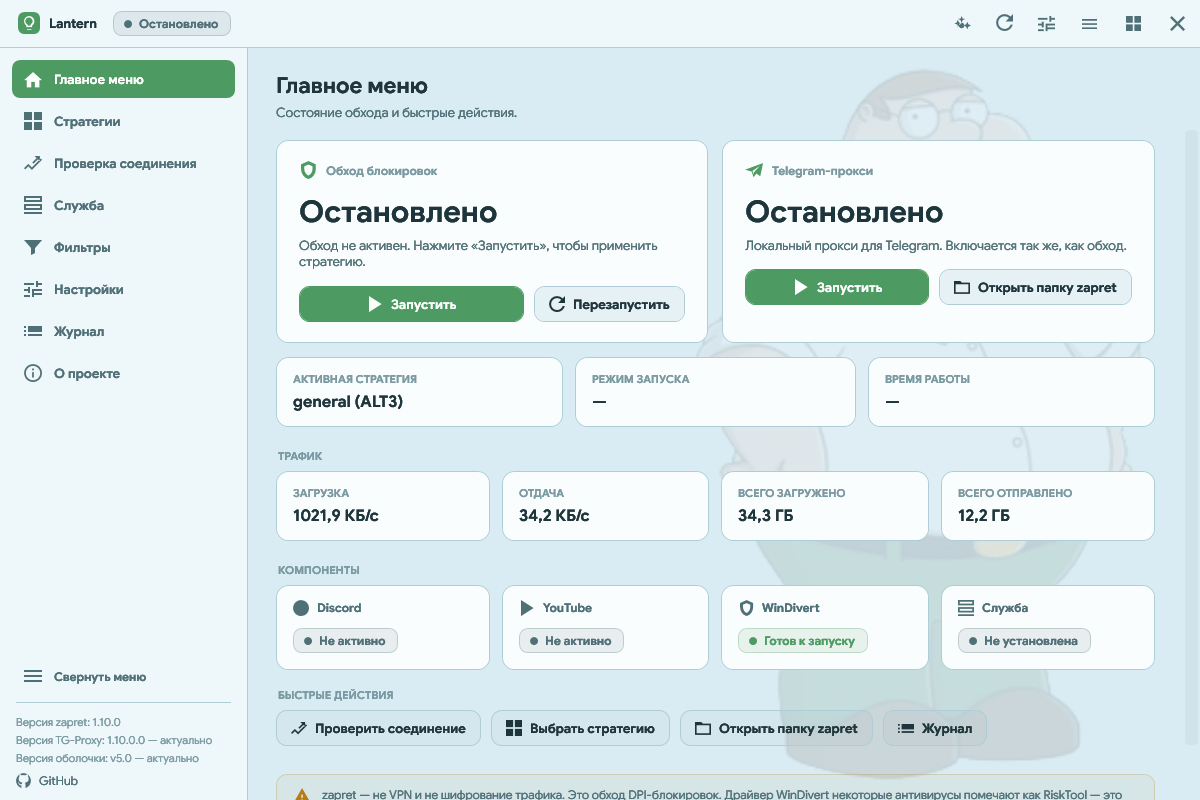
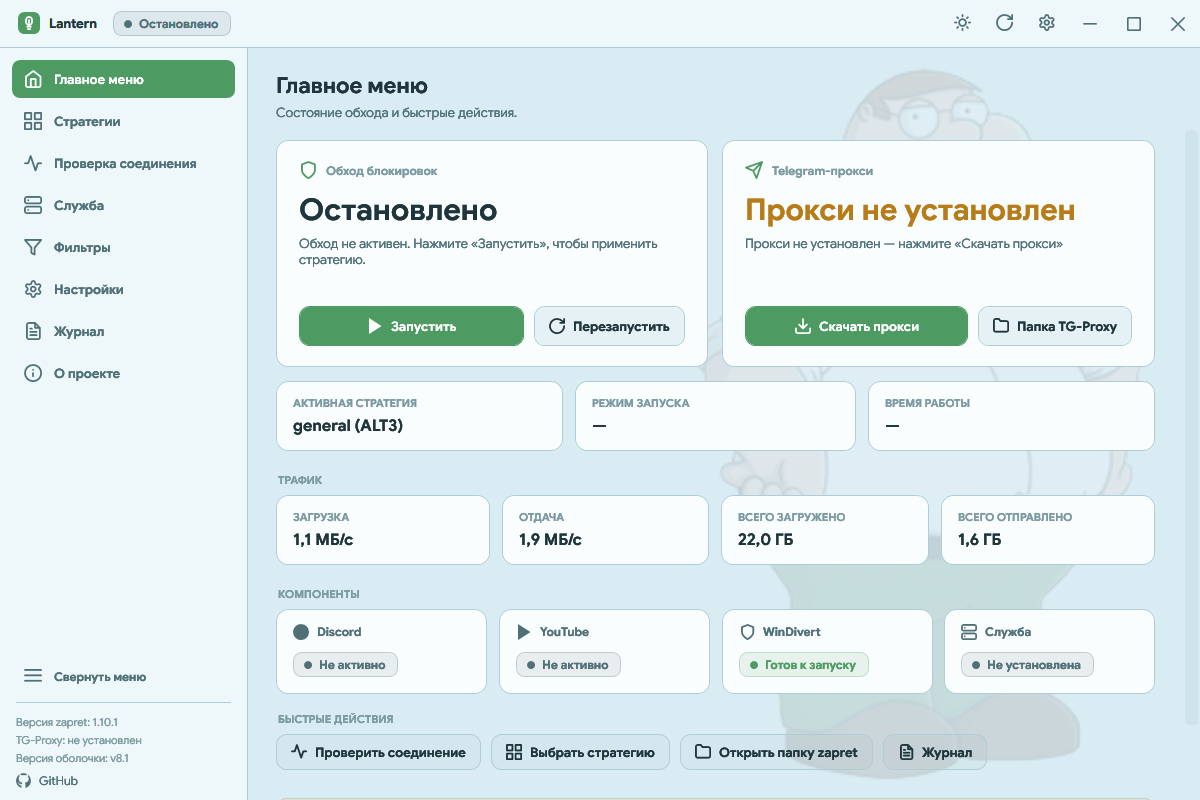
docs: refresh guide, issue templates, README and all UI screenshots for v8.1

diff --git a/_app/SelfTest.cs b/_app/SelfTest.cs
@@ -755,7 +755,7 @@ namespace ZapretStudio
             catch (Exception ex) { _fail++; Line("FAIL", what + " -> " + ex.GetType().Name + ": " + ex.Message); }
         }
 
-        static void Line(string lvl, string msg) { Log.AppendLine("[" + lvl + "] " + msg); }
+        static void Line(string lvl, string msg) { Log.AppendLine("[" + lvl + "] " + msg); Console.WriteLine("[" + lvl + "] " + msg); }
 
         // Рендер окна в PNG для визуальной проверки и автогенерации документации.
         static void SavePng(MainWindow win, string fullPath)

diff --git a/docs/guide.md b/docs/guide.md
@@ -147,7 +147,7 @@
 
 ## ⚙ Служба Windows (Автозапуск)
 
-Установка Lantern в качестве **системной службы Windows** позволяет `winws.exe` стартовать автоматически при загрузке компьютера еще до входа пользователя в систему.
+Установка Lantern в качестве **системной службы Windows** позволяет `winws.exe` стартовать автоматически при загрузке компьютера еще до входа пользователя в систему. В этом же разделе централизованно настраивается поведение фонового автозапуска.
 
 <div align="center">
 
@@ -155,11 +155,15 @@
 
 </div>
 
-### Как настроить службу:
-1. Выберите нужную стратегию в выпадающем списке раздела **Служба**.
-2. Нажмите кнопку **«Установить службу»**.
-3. Lantern создаст службу с именем `zapret`, настроит автозапуск (`start= auto`) и пропишет выбранную стратегию в системный реестр (`HKLM\System\CurrentControlSet\Services\zapret`).
-4. Для удаления службы достаточно нажать кнопку **«Удалить»**.
+### Как настроить службу и автозапуск:
+1. **Установка системной службы**:
+   - Выберите нужную стратегию в выпадающем списке раздела **Служба**.
+   - Нажмите кнопку **«Установить службу»**.
+   - Lantern создаст службу с именем `zapret`, настроит автозапуск (`start= auto`) и пропишет выбранную стратегию в системный реестр (`HKLM\System\CurrentControlSet\Services\zapret`).
+   - Для удаления службы достаточно нажать кнопку **«Удалить»**.
+2. **Единое управление автозапуском**:
+   - **Автозапуск службы при старте системы** — служба `winws.exe` стартует как фоновый сервис Windows без необходимости открывать окно программы.
+   - **Автозапуск приложения Lantern в трей** — добавление задачи в планировщик Windows (`LanternAutostart` с наивысшими правами) для автоматического запуска Lantern в трей при входе в систему.
 
 ---
 
@@ -192,9 +196,9 @@
 
 ---
 
-## ⚙ Настройки, Watchdog и профили
+## ⚙ Настройки, оптимизация и профили
 
-Раздел настроек обеспечивает детальную кастомизацию работы программы, визуального оформления и системной автоматизации.
+Раздел настроек обеспечивает детальную кастомизацию работы программы, визуального оформления, системной безопасности и оптимизации ресурсов.
 
 <div align="center">
 
@@ -204,13 +208,22 @@
 
 ### Ключевые возможности:
 - **🐶 Watchdog (Автопереключение при сбое)**:
-  В фоновом режиме каждые $N$ минут опрашивает ключевые эндпоинты Discord и YouTube. Если провайдер заблокировал текущую стратегию, Watchdog автоматически переберет каталог стратегий и включит рабочую.
+  В фоновом режиме каждые $N$ минут опрашивает ключевые эндпоинты Discord и YouTube. Если провайдер заблокировал текущую стратегию, Watchdog автоматически переберет каталог стратегий и включит рабочую с сохранением режима работы службы.
+- **⚡ Экстремальная оптимизация ОЗУ (RAM)**:
+  - Автоматическое усечение рабочего набора памяти (`Core.TrimMemory()`) при минимизации или сворачивании окна в системный трей.
+  - Ленивая загрузка медиаплеера: движок воспроизведения инициализируется только при первом старте музыки, экономя до 70 МБ ОЗУ при обычном использовании.
+- **🎬 Кинематографичные переходы и сохранение позиции**:
+  - Плавный бесшовный переход между темами и языками с эффектом размытия (`BlurEffect` от 6px до 0) и затухания (`Fade`).
+  - Позиция прокрутки страниц сохраняется с точностью до пикселя при смене тем и языков.
+  - Полная поддержка режима «Уменьшение движения» (`reduce_motion`): анимации мгновенно отключаются при активации соответствующей системной опции.
+- **🛡 Защитник Windows (Windows Defender)**:
+  - Добавление папки приложения в исключения Защитника Windows в 1 клик для предотвращения блокировки драйвера `WinDivert64.sys`.
 - **📦 Менеджер обновлений**:
-  В один клик проверяет свежие версии `zapret`, `tg-ws-proxy` и `Lantern` через GitHub Releases API.
+  - В один клик проверяет свежие версии `zapret`, `tg-ws-proxy` и `Lantern` через GitHub Releases API.
 - **📁 Профили настроек**:
-  Сохраняйте рабочие комбинации (Стратегия + Фильтры + IPSet + DoH) в именованные профили для мгновенного переключения между играми, работой и просмотром видео.
+  - Сохраняйте рабочие комбинации (Стратегия + Фильтры + IPSet + DoH) в именованные профили для мгновенного переключения между играми, работой и просмотром видео.
 - **🍗 Настройки темы «Питер Гриффин»**:
-  Включают полупрозрачный фон и аудиоплеер со случайным выбором треков из `assets/peter-songs/`.
+  - Включают полупрозрачный фон и аудиоплеер со случайным выбором треков из `assets/peter-songs/`.
 
 ---
 
@@ -277,6 +290,23 @@
 - Проверьте статус файла `hosts` в **Настройках** (он не должен содержать старых заглушек для googlevideo).
 - Включите **DNS-over-HTTPS** в разделе **Фильтры**.
 - Запустите **Бенчмарк стратегий** в разделе **Проверка соединения**, чтобы найти стратегию с наименьшей задержкой для YouTube CDN.
+
+</details>
+
+<details>
+<summary><b>4. Предупреждение Windows SmartScreen («Защитник Windows защитил ваш компьютер»)</b></summary>
+
+- **Причина**: Инсталлятор `Lantern-Setup.exe` распространяется бесплатно как проект с открытым исходным кодом. У него нет дорогостоящего ежегодного коммерческого EV-сертификата Microsoft (стоимостью более \$500/год), поэтому встроенная система SmartScreen перестраховывается на новых релизах.
+- **Как запустить**: Нажмите на ссылку **«Подробнее»** в окне предупреждения SmartScreen, а затем на появившуюся кнопку **«Выполнить в любом случае»**.
+- **Проверка подлинности**: Вы всегда можете сверить хэш скачанного файла с официальным файлом `Lantern-Setup.exe.sha256` со [страницы релизов](https://github.com/krinix1337/lantern-zapret/releases) либо загрузить файл на [VirusTotal](https://www.virustotal.com).
+
+</details>
+
+<details>
+<summary><b>5. Антивирус блокирует драйвер WinDivert64.sys или папку приложения</b></summary>
+
+- **Причина**: Драйвер `WinDivert` осуществляет локальный перехват и модификацию пакетов сетевого стека на уровне ядра (Ring 0) для нейтрализации блокировок DPI. Некоторые эвристические анализаторы антивирусов могут воспринимать это как подозрительную сетевую активность (ложное срабатывание / False Positive).
+- **Решение**: Перейдите в **Настройки → Антивирус и Защитник Windows** и нажмите **«Добавить в исключения Защитника»** либо вручную внесите папку программы в белый список вашего стороннего антивируса.
 
 </details>
 

diff --git a/README.md b/README.md
@@ -33,6 +33,8 @@
 
 > [!NOTE]
 > Весь интерфейс написан на **чистом C# и WPF без использования тяжелых XAML-разметок**. Lantern напрямую использует проверенные BAT-стратегии zapret, динамически парсит аргументы запуска и не вмешивается во внутреннюю логику обхода.
+> 
+> *Дисклеймер*: Проект **Lantern (lantern-zapret)** является независимым Open Source приложением для обхода DPI в РФ и никак не связан с проектом Lantern VPN (getlantern.org).
 
 ---
 
@@ -94,6 +96,10 @@
 2. Запустите установщик и следуйте простым подсказкам мастера.
 3. Запустите **Lantern** от имени администратора.
 4. При первом старте Lantern автоматически загрузит актуальную сборку `zapret`.
+
+> [!TIP]
+> **Если Windows SmartScreen выдает предупреждение:**  
+> Так как программа бесплатная и с открытым исходным кодом, у нее нет платного коммерческого сертификата Microsoft за $500+/год. Для запуска нажмите **«Подробнее» → «Выполнить в любом случае»**. Подлинность сборки всегда можно проверить по хэшу `Lantern-Setup.exe.sha256` из релиза.
 
 > [!IMPORTANT]
 > Для взаимодействия с сетевым драйвером **WinDivert**, создания системных служб и применения DNS-over-HTTPS требуются **права администратора**.
